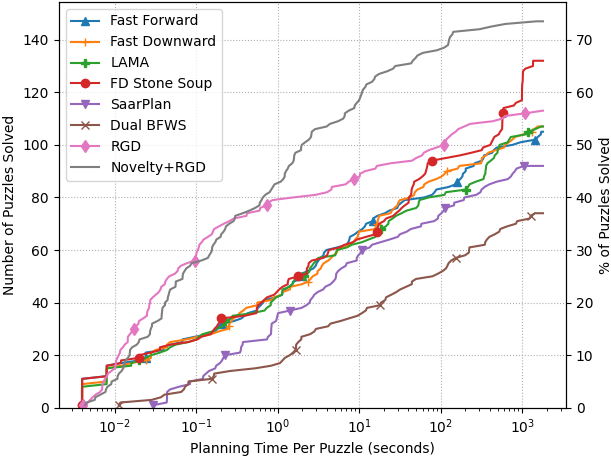
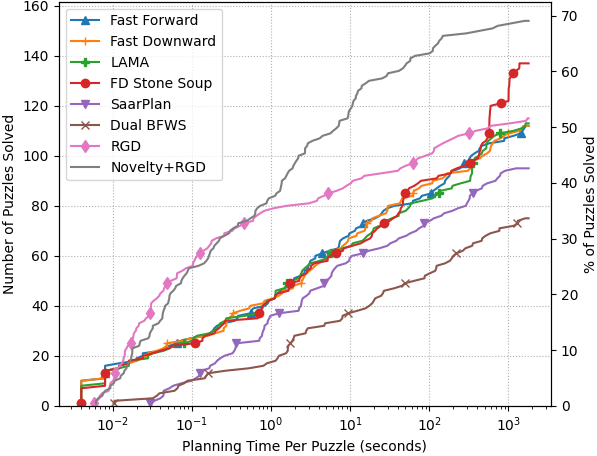
Plot update

diff --git a/index.html b/index.html
@@ -269,7 +269,7 @@
     <li><span><b>Novelty+RGD</b> is a greedy best-first search with a lexicographic heuristic that combines the novelty heuristic with the RGD heuristic, prioritizing novelty.</span></li>
   </ul>
 
-  The plot below shows how many puzzles each planner solves within a given time per puzzle. Novelty+RGD solves the most puzzles (73.5%) within 30 minutes per puzzle, followed by FDSS (66%). Notably, Novelty+RGD solves as many puzzles in 46 seconds as FDSS solves in 30 minutes.
+  The plot below shows how many puzzles each planner solves within a given time per puzzle. Novelty+RGD solves the most puzzles (69.1%) within 30 minutes per puzzle, followed by FDSS (61.4%). Notably, Novelty+RGD solves as many puzzles in 52 seconds as FDSS solves in 30 minutes.
 
   <img class="classical-results" src="images/pushworld-evaluation-planner.png" alt="Classical Planning Results"/>
 
